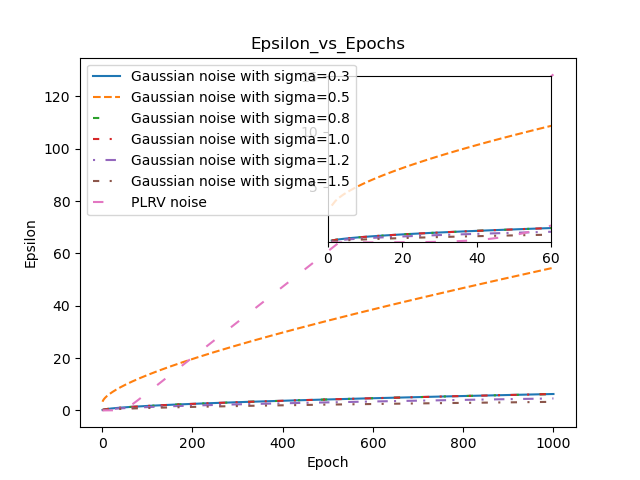
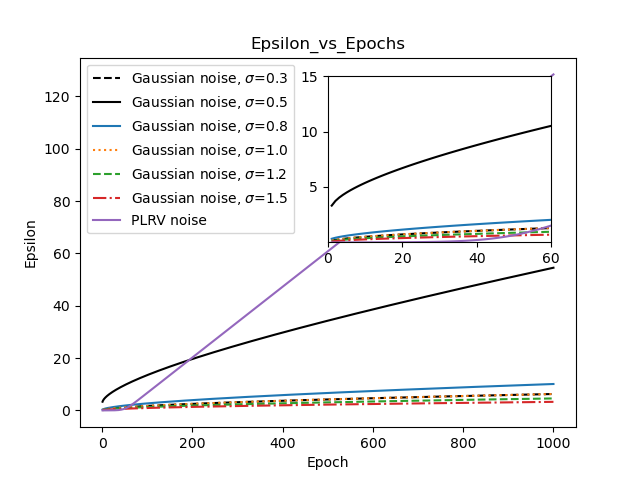
updated result

diff --git a/examples/my_example/result_june_7/plotter.py b/examples/my_example/result_june_7/plotter.py
@@ -80,7 +80,7 @@ def plot_accuracy(data, legends, line_styles, is_inset=True, title="Accuracy_vs_
     for key, val in data.items():
         val_key=val.keys()
         val_values=val.values()
-        plt.plot(val_key, val_values, label=legends[key], linestyle=line_styles[key])
+        plt.plot(val_key, val_values, line_styles[key], label=legends[key])
 
     plt.xlabel("Time")
     plt.ylabel("Accuracy")
@@ -129,7 +129,7 @@ def plot_epsilon(data, legends, line_styles, is_inset=True, title="Epsilon_vs_Ep
         for key, val in data.items():
             val_key=val.keys()
             val_values=val.values()
-            plt.plot(val_key, val_values, label=legends[key], linestyle=line_styles[key])
+            plt.plot(val_key, val_values, line_styles[key], label=legends[key])
 
         plt.xlabel("Time")
         plt.ylabel("Epsilon")
@@ -141,7 +141,7 @@ def plot_epsilon(data, legends, line_styles, is_inset=True, title="Epsilon_vs_Ep
         for key, val in data.items():
             val_key=val.keys()
             val_values=val.values()
-            ax.plot(val_key, val_values, label=legends[key], linestyle=line_styles[key])
+            ax.plot(val_key, val_values, line_styles[key], label=legends[key])
 
         ax.set_title(title)
         ax.set_xlabel('Epoch')
@@ -154,7 +154,7 @@ def plot_epsilon(data, legends, line_styles, is_inset=True, title="Epsilon_vs_Ep
         for key, val in data.items():
             val_key=list(val.keys())
             val_values=list(val.values())
-            ax_inset.plot(val_key[:70], val_values[:70], label=legends[key], linestyle=line_styles[key])
+            ax_inset.plot(val_key[:70], val_values[:70], line_styles[key], label=legends[key])
             
 
         # ax_inset.set_title('Zoomed View (0 to 100)')
@@ -189,7 +189,7 @@ def plot_epsilon_given_budget(data, budgets, legends, line_styles, title="Epsilo
             val_key=range(0, len(val))
 
         
-            ax.plot(val_key, val, label=legends[key], linestyle=line_styles[key])
+            ax.plot(val_key, val, line_styles[sigma], label=legends[key])
             ax.legend(loc='best')
             subplot_title=f"Privacy budget={budget}"
             ax.title.set_text(subplot_title)
@@ -226,7 +226,7 @@ def plot_accuracy_vs_epsilon(epsilon, accuracy, budgets, legends, line_styles, n
             x_axis_data=list(data.keys())
             y_axis_data=list(data.values())
 
-            ax.plot(x_axis_data, y_axis_data, label=legends[sigma], linestyle=line_styles[sigma])
+            ax.plot(x_axis_data, y_axis_data, line_styles[sigma], label=legends[sigma])
             ax.legend(loc='best')
             subplot_title=f"Privacy budget={budget}"
             ax.title.set_text(subplot_title)
@@ -234,6 +234,12 @@ def plot_accuracy_vs_epsilon(epsilon, accuracy, budgets, legends, line_styles, n
         index = index+1 
 
     file_name=f"{title}.png"
+
+    plt.xlabel('$\\epsilon$')
+    plt.ylabel('Accuracy (%)')
+    plt.title('(a) MNLI-m dataset')
+    plt.legend()
+    plt.grid(True)
     plt.tight_layout()
     plt.savefig(file_name)
     plt.show()
@@ -249,20 +255,43 @@ if __name__=="__main__":
         "1.5":"Gaussian noise, $\sigma$=1.5",
         "0.0": "PLRV noise"
     }
-        
-    line_styles={
+
+
+    line_styles4={
         "0.3" : '-', 
         "0.5" :'--',
-        "0.8" : (0, (3, 10, 1, 10, 1, 10)), 
-        "1.0": (0, (3, 5, 1, 5)), 
-        "1.2":(0, (1, 5,5, 3)), 
+        "0.8" : ':', 
+        "1.0": '-.', 
+        "1.2": (0, (3, 5, 1, 5)), 
         "1.5":(0, (3, 5, 1, 5)),
-        "0.0": (0, (5, 10))
+        "0.0": (0, (3, 10, 1, 10, 1, 10))
     }
+
+    line_styles44={
+        "0.3" : '-', 
+        "0.5" :'--',
+        "0.8" : ':', 
+        "1.0": '-.', 
+        "1.2": '-', 
+        "1.5":'--',
+        "0.0": ':'
+    }
+
+    line_styles={
+        "0.3" : 'k--', 
+        "0.5" :'k-',
+        "0.8" : '-', 
+        "1.0": ':', 
+        "1.2": '--', 
+        "1.5":'-.',
+        "0.0": '-'
+    }
+
+
     files= {
         "0.3" : "data_gaussian_sigma_1.0_epochs_1000.pkl", 
         "0.5" :"data_gaussian_sigma_0.5_epochs_1000.pkl",
-        "0.8" : "data_gaussian_sigma_1.0_epochs_1000.pkl", 
+        "0.8" : "data_gaussian_sigma_0.8_epochs_1000.pkl", 
         "1.0": "data_gaussian_sigma_1.0_epochs_1000.pkl", 
         "1.2":"data_gaussian_sigma_1.2_epochs_1000.pkl", 
         "1.5":"data_gaussian_sigma_1.5_epochs_1000.pkl",
@@ -285,13 +314,15 @@ if __name__=="__main__":
 
     print("data reading done")
 
-    # plot_epsilon(data_epsilon, legends, line_styles, True)
+    plot_epsilon(data_epsilon, legends, line_styles, True)
     
-    # plot_accuracy(data_accuracy, legends, line_styles, True)
+    plot_accuracy(data_accuracy, legends, line_styles, True)
 
-    # plot_epsilon_given_budget(data_epsilon, [0.3, 0.5, 0.8, 1, 1.5, 2.0], legends, line_styles)
+    plot_epsilon_given_budget(data_epsilon, [0.3, 0.5, 0.8, 1, 1.5, 2.0], legends, line_styles)
 
     plot_accuracy_vs_epsilon(data_epsilon, data_accuracy, [ 0.5, 1, 2.0, 4.0], legends, line_styles, noise, title="Accuracy_vs_Epsilon")
+    
+    
     # with open(file_path, 'rb') as file:
     #     data_r2dp = pickle.load(file)
 
